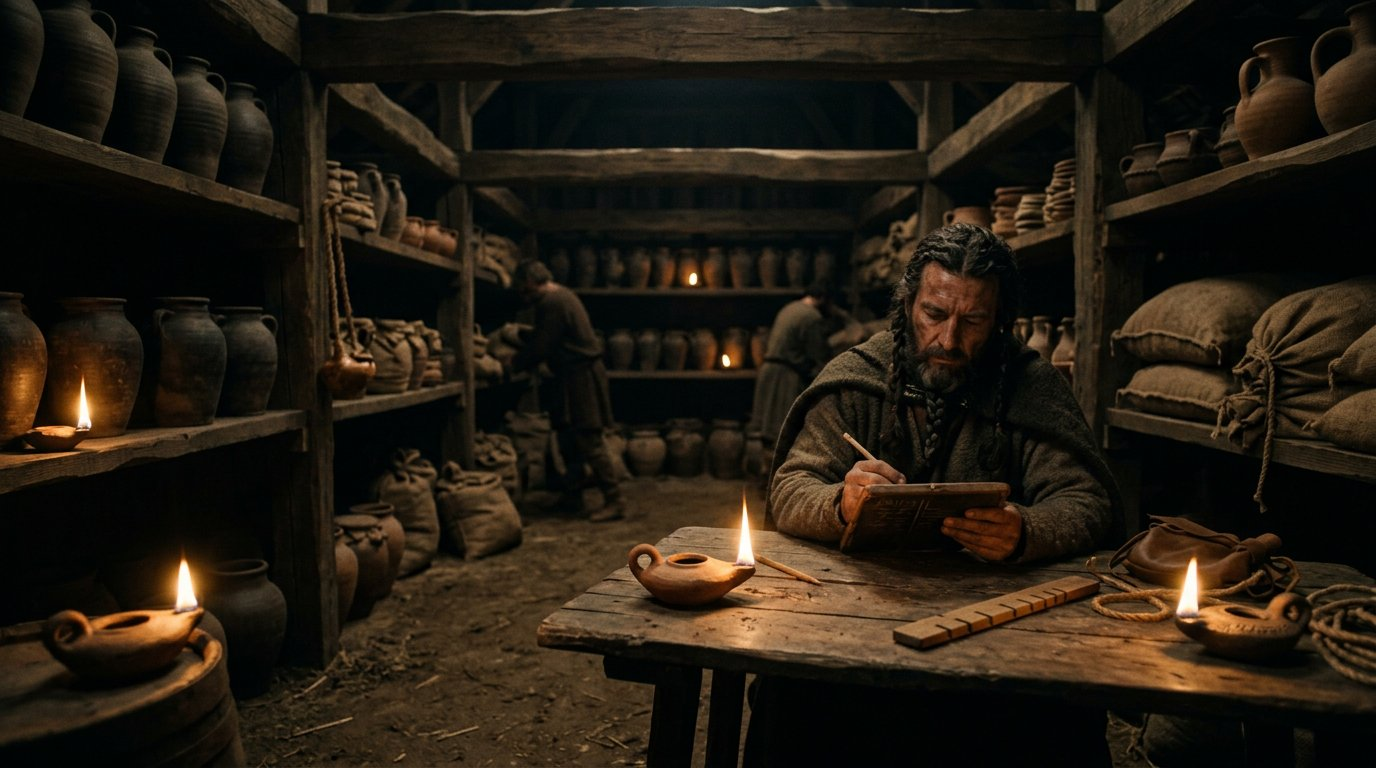
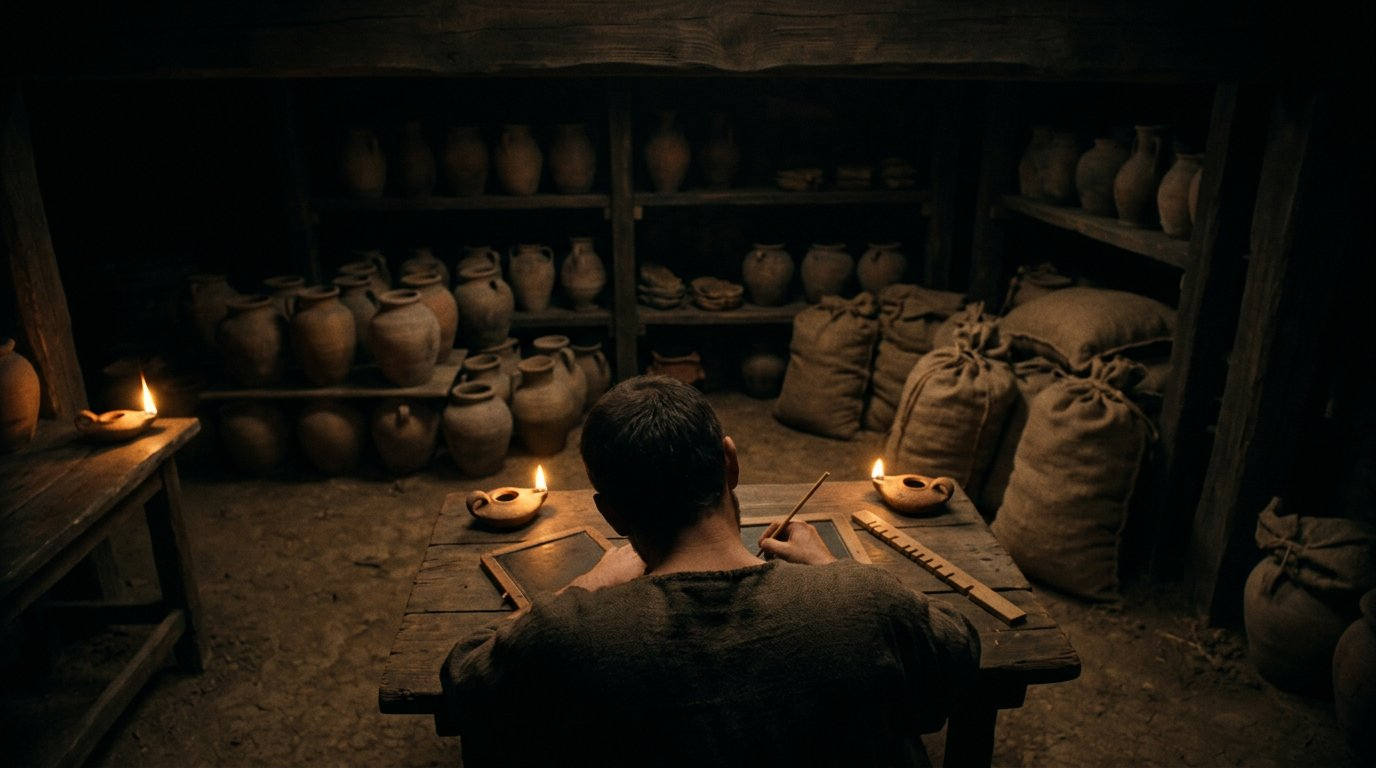
fix(ep002): round five art fixes for 023, 032, 063, 066
A complete read of all 70 frames of the delivered cut (not the masters)
found four defects that had survived every earlier audit, all in scenes
that had never appeared on a fix list:

  023  a large, sharply lit, legible face at the ledger desk
  032  a full profile portrait of the governor, unmistakably a likeness
  063  an aircraft-carrier battle group at flank speed (20th century)
  066  a face-on coin with an encircling legend and a portrait bust

Root cause for 023/032: STYLE required faces to be "unfamiliar and
invented" but never said where a face may sit or how it may be lit, so a
close, sharply lit portrait satisfied the letter of the rule. STYLE now
carries NO LEGIBLE FACE AT CLOSE RANGE as a compositional rule and BAN
carries the short form, so every prompt inherits it.

063 and 066 are the known noun and composition traps: "fleet" with no
period anchor pulls a modern navy, and a coin held up to camera will be
struck face-on however the style forbids the die.

Directions rewritten and masters regenerated for all four.

diff --git a/scripts/episode-audit/ep002_scene_directions.py b/scripts/episode-audit/ep002_scene_directions.py
@@ -27,7 +27,12 @@ STYLE = (
     "not minarets, not Chinese or Japanese, not Nordic or Icelandic, not "
     "European. NO RECOGNISABLE PEOPLE: every face must be an unfamiliar "
     "invented person, never a real actor, never a celebrity likeness, never a "
-    "portrait of a known performer. No invented lettering of any kind. "
+    "portrait of a known performer. NO LEGIBLE FACE AT CLOSE RANGE: no face "
+    "may fill or dominate the frame and no face may be lit sharply enough to "
+    "read as a portrait; anyone near the camera is turned away, seen from "
+    "behind, hooded or shadowed, bent to their work, or cropped at the "
+    "shoulders, and faces stay small, distant, downturned or in profile "
+    "against shadow. No invented lettering of any kind. "
     "NO COIN DESIGN: any coin is struck with no recognisable figure and no "
     "reading of any kind, no profile head, no helmet, no laurel wreath, no "
     "winged victory or Nike, no standing goddess, no Greek lettering, no "
@@ -40,7 +45,8 @@ STYLE = (
 # medieval Europe, for a Mediterranean souk, or for a Victorian interior.
 BAN = (
     "Fantasy antiquity only. Not Rome, not Greece, not medieval Europe, "
-    "not the modern world. Every face unfamiliar and invented. No steel or "
+    "not the modern world. Every face unfamiliar and invented. No close "
+    "legible portrait face, no sharply lit face near the camera. No steel or "
     "iron helmets, no quilted field jackets, no military uniforms of any era, "
     "no soldiers who could be from a real army. NO EAGLES OR HERALDRY: no "
     "eagle standards or legionary aquila, no double-headed eagles, no heraldic "
@@ -97,7 +103,7 @@ SCENES = {
 22: ("A dragon on a rocky headland unable to go further, sea beyond, a Valyrian ship "
      "waiting offshore, the animal's enormous patience and irritation.",
      VALYRIA + ", grey sea, cold light"),
-23: ('A warehouse interior at night lit by three small clay oil lamps with open pinched spouts and no glass: shelves of stacked unglazed jars and tied grain sacks, a bonded clerk tallying on a wax tablet with a reed stylus, a few tally notches cut into a wooden stick, packed earth floor, low timber ceiling, long shadows, no glass lamp chimneys, no printed book, no paper leaves, no metal pen.',
+23: ('A warehouse interior at night lit by three small clay oil lamps with open pinched spouts and no glass: shelves of stacked unglazed jars and tied grain sacks, a bonded clerk seen from behind and above with his back to the camera and his head bent low over a wax tablet, only his shoulders, his bowed head and his hands visible, a reed stylus in his fingers and a few tally notches cut into a wooden stick, packed earth floor, low timber ceiling, long shadows, his face entirely out of frame, no profile, no face turned toward the camera, no glass lamp chimneys, no printed book, no paper leaves, no metal pen.',
     "warm lamplight"),
 24: ('A wet grey stone quay at dusk with a short desert horse standing alone, its rope halter tied to a rusted iron ring, a plain leather purse and a rolled hide document resting on a low stone bollard beside it, small boats pulled up on the water, flat-roofed brick warehouses with parapets behind, a dragon a distant black speck in the overcast, and no person anywhere in the frame. No figure, no cloaked man, no face, no hooded rider, no gabled houses, no timber framing, no brick arches.',
     "grey light"),
@@ -116,7 +122,7 @@ SCENES = {
      "standing on the mole watching for sails that are not coming.", "grey water, pale sky"),
 31: ("The same ordinary Ghiscari room across four years, four narrow panels: a boy's hands at a small bronze furnace, a bride's hands on a loom with her face turned down, two men's hands patching a flat mud roof seen from below, and a limping veteran's stick and sandalled feet at the threshold, faces out of frame throughout, clay pots and a loom, ochre brick, no glass.",
     GHIS),
-32: ("A cramped Valyrian governor's office in a hot Ghiscari city: a cracked clay water jug, stacked clay tablets of grain tallies, an exhausted man in a plain linen tunic writing with a reed stylus, no grandeur at all, no paper, no glass windows.",
+32: ("A cramped Valyrian governor's office in a hot Ghiscari city: a cracked clay water jug, stacked clay tablets of grain tallies on sagging shelves, and a tired man in a plain linen tunic at the end of the table with his head bent far down over a tablet, seen from an angle behind his shoulder so only his back, his bowed neck and the hand driving a reed stylus across the clay are in the frame, warm window light falling on the tablets and leaving his face in shadow and turned away, no grandeur at all, no face toward the camera, no portrait of a man, no paper, no glass windows.",
     'hot ochre, harsh window light'),
 33: ('A line drawn in the dust before a desert city, a single iron spear planted at the boundary with an ochre rag tied to it, the city low and ochre behind a haze of dust, flat roofs and squat square brick towers with battered outer walls, no ziggurat, no stepped pyramid, no tiered terraces, no domes, no minarets, bleached light.',
     GHIS),
@@ -178,14 +184,22 @@ SCENES = {
     'green-grey water, dawn gold'),
 62: ('A lone figure standing very still on black basalt at the rim of a glowing lava field, seen small in the frame from a distance and from behind, a shaved head with a plain bronze circlet, a coarse undyed wool shawl over dark homespun breeches, neither hair nor cloak flattering, the calm of someone who has never lost, no face visible at this distance, ash and smoke drifting. No silver hair, no platinum hair, no long pale hair, no black cloak, no cape or long trailing garment.',
     VALYRIA),
-63: ("A fleet seen from directly above, a dragon's shadow crossing it, no enemy anywhere, "
-     "the sea empty for a thousand miles.", "blue-green, high sun"),
+63: ("A fleet of ancient wooden galleys seen from high above on open blue-green water, a hundred "
+     "oar-driven hulls with single square sails and long wooden oars raking the sea, a dragon's "
+     "shadow passing across them, no enemy anywhere, the sea empty for a thousand miles, "
+     "no metal warships, no steel hulls, no gun turrets, no smokestacks, no aircraft carrier, "
+     "no destroyers, no modern navy of any kind, no wakes from engines, only oar wash.",
+     "blue-green, high sun"),
 64: ("The Fourteen Flames: a black volcanic range with smoke and a faint red glow in the "
      "fissures, no people, no city, simply enormous and indifferent.", VALYRIA + ", storm light"),
 65: ('A wild dragon crouched in sleep on a vast fused black-stone terrace high on the smoking mountain, seen from behind and to one side at a distance, its wings folded and its eye shut, a low sheer wall of unbroken black stone behind it and the lava glow far below, a few robed figures standing small and far off at the terrace edge with their backs turned, no building interior, no hall, no ceiling, no roof, no walls of masonry, no columns, no arches, no windows, no doorway, moonlight and ember light only.',
     VALYRIA + ", ember and moon"),
-66: ("Split impression: a battle plain empty of anyone, and in the foreground a single coin "
-     "in a stranger's palm, the two scales of history.", "grey and gold"),
+66: ("Split impression: a battle plain empty of anyone, and in the foreground an open palm "
+     "holding one small gold coin pushed to the edge of the fingers and tilted almost "
+     "edge-on so only its thickness, its worn rim and a sliver of blank gold face the "
+     "camera, an empty struck field with no design and no legend, no portrait head, no "
+     "bust in profile, no letters or inscription around the rim, no winged figure, "
+     "no readable coin at all, the two scales of history.", "grey and gold"),
 67: ("A coastline where a peninsula used to be, broken islands in grey water, the sea "
      "covering the shape of a country.", "grey sea, cold haze"),
 68: ("A pair of hands apart from each other, one holding a sword, one holding nothing, "
